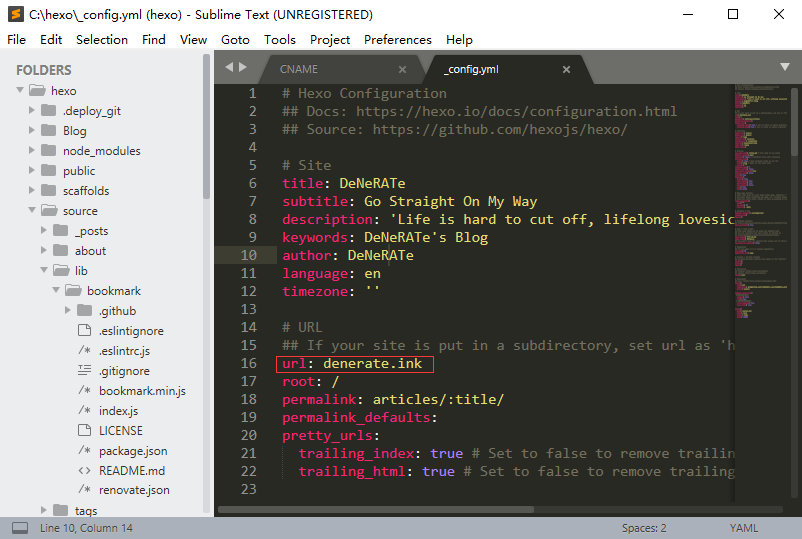
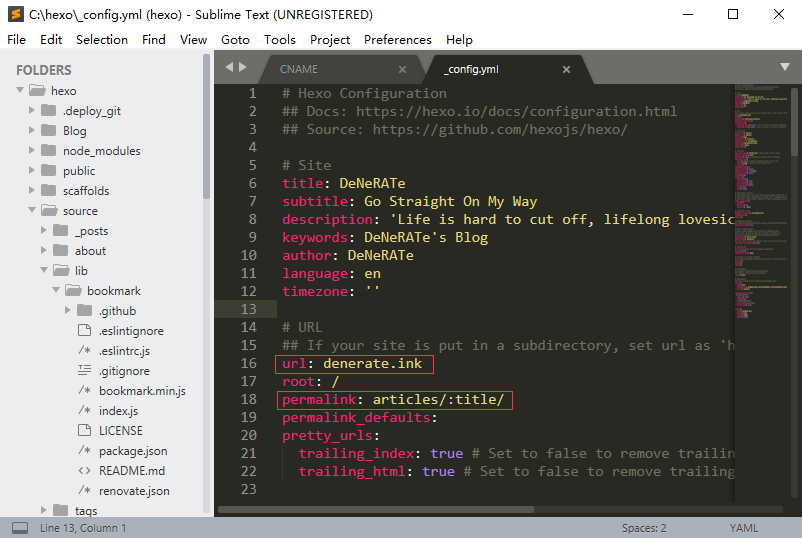
Site updated: 2020-07-04 20:52:24

diff --git a/articles/Blog Chore/index.html b/articles/Blog Chore/index.html
@@ -128,9 +128,9 @@
 <meta property="og:image" content="https://i.loli.net/2020/06/27/6qhETFNRi4coMfa.png">
 <meta property="og:image" content="https://i.loli.net/2020/06/27/PYplstVOXjJHzm1.png">
 <meta property="og:image" content="https://i.loli.net/2020/06/27/Zxn1OkSMr38zUhY.png">
-<meta property="og:image" content="https://i.loli.net/2020/07/04/efpMFAtPi81kKsY.png">
+<meta property="og:image" content="https://i.loli.net/2020/07/04/OToK8NcsmYp4Jw1.png">
 <meta property="article:published_time" content="2020-06-24T12:59:46.000Z">
-<meta property="article:modified_time" content="2020-07-04T12:04:31.208Z">
+<meta property="article:modified_time" content="2020-07-04T12:48:18.010Z">
 <meta property="article:author" content="DeNeRATe">
 <meta property="article:tag" content="Blog Chore">
 <meta name="twitter:card" content="summary">
@@ -445,7 +445,7 @@
                 
                   <span class="post-meta-item-text">Edited on</span>
                 
-                <time title="Modified: 2020-07-04 20:04:31" itemprop="dateModified" datetime="2020-07-04T20:04:31+08:00">2020-07-04</time>
+                <time title="Modified: 2020-07-04 20:48:18" itemprop="dateModified" datetime="2020-07-04T20:48:18+08:00">2020-07-04</time>
               
             
           </span>
@@ -598,7 +598,7 @@
 <p><strong>C:\hexo\_config.yml</strong>进行两部修改：</p>
 <p>修改如图<strong>url</strong>处的域名（即改为<strong>自己购买的域名</strong>）</p>
 <p>将<strong>permalink</strong>处改为如图的<strong>“articles/:title/”</strong>即可大功告成</p>
-<p><img src="https://i.loli.net/2020/07/04/efpMFAtPi81kKsY.png" alt="腾讯云域名-13.png"></p>
+<p><img src="https://i.loli.net/2020/07/04/OToK8NcsmYp4Jw1.png" alt="腾讯云域名-13.png"></p>
 
       
     </div>

diff --git a/index.html b/index.html
@@ -419,7 +419,7 @@
                 
                   <span class="post-meta-item-text">Edited on</span>
                 
-                <time title="Modified: 2020-07-04 20:04:31" itemprop="dateModified" datetime="2020-07-04T20:04:31+08:00">2020-07-04</time>
+                <time title="Modified: 2020-07-04 20:48:18" itemprop="dateModified" datetime="2020-07-04T20:48:18+08:00">2020-07-04</time>
               
             
           </span>
